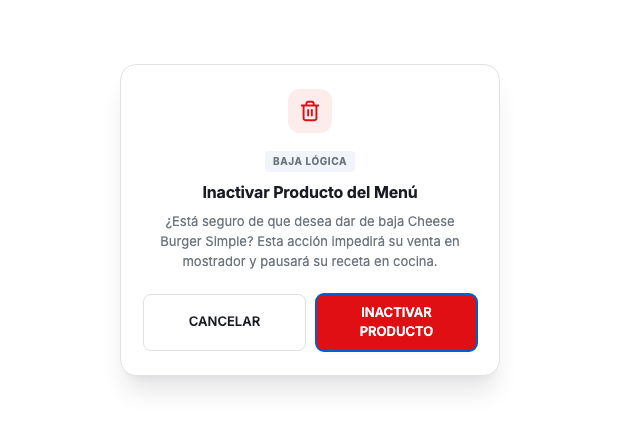
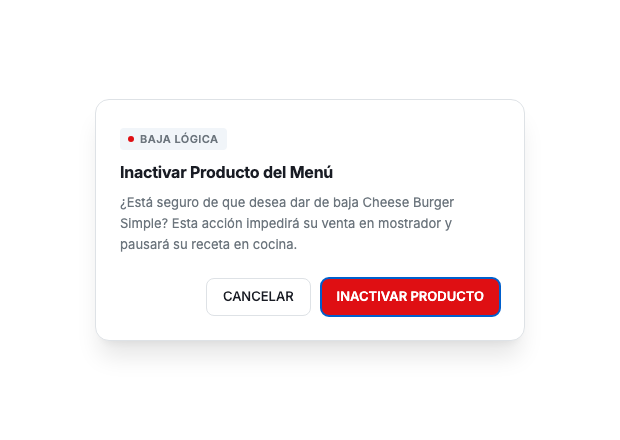
style(ui): implementar Alternativa B minimalista tipográfica (Linear/Stripe) sin iconos

diff --git a/apps/web/resources/js/Components/Modal/ConfirmDialog.jsx b/apps/web/resources/js/Components/Modal/ConfirmDialog.jsx
@@ -1,5 +1,9 @@
 import React, { useEffect, useRef } from 'react';
 
+/**
+ * ConfirmDialog — Estilo Minimalista Tipográfico (Linear / Stripe)
+ * Diálogo de confirmación transaccional agnóstico sin iconos decorativos.
+ */
 export default function ConfirmDialog({
     isOpen = true,
     title = '¿Está seguro?',
@@ -11,14 +15,13 @@ export default function ConfirmDialog({
     onConfirm,
     onCancel,
     freeze = false,
-    icon: customIcon = null,
 }) {
     const confirmBtnRef = useRef(null);
 
     useEffect(() => {
         if (!isOpen) return;
 
-        // Auto-focus confirm button
+        // Auto-focus en el botón de confirmación
         if (confirmBtnRef.current) {
             confirmBtnRef.current.focus();
         }
@@ -36,100 +39,14 @@ export default function ConfirmDialog({
 
     if (!isOpen) return null;
 
-    // Determinación de variantes semánticas
     const isDanger = variant === 'danger';
     const isWarning = variant === 'warning';
-    const isInfo = variant === 'info' || variant === 'question';
 
     const defaultConfirmText = isDanger ? 'Eliminar' : 'Aceptar';
     const finalConfirmText = confirmText || defaultConfirmText;
 
-    const iconBadge = () => {
-        if (customIcon) {
-            return (
-                <div style={{
-                    width: '44px',
-                    height: '44px',
-                    borderRadius: '12px',
-                    backgroundColor: 'var(--bg-main, #f1f5f9)',
-                    color: 'var(--text-main, #0f172a)',
-                    display: 'flex',
-                    alignItems: 'center',
-                    justifyContent: 'center',
-                    margin: '0 auto 14px auto'
-                }}>
-                    {customIcon}
-                </div>
-            );
-        }
-
-        if (isDanger) {
-            return (
-                <div style={{
-                    width: '44px',
-                    height: '44px',
-                    borderRadius: '12px',
-                    backgroundColor: 'rgba(223, 15, 19, 0.08)',
-                    color: '#df0f13',
-                    display: 'flex',
-                    alignItems: 'center',
-                    justifyContent: 'center',
-                    margin: '0 auto 14px auto'
-                }}>
-                    <svg width="22" height="22" viewBox="0 0 24 24" fill="none" stroke="currentColor" strokeWidth="2.1" strokeLinecap="round" strokeLinejoin="round">
-                        <path d="M3 6h18m-2 0v14a2 2 0 0 1-2 2H7a2 2 0 0 1-2-2V6m3 0V4a2 2 0 0 1 2-2h4a2 2 0 0 1 2 2v2"></path>
-                        <line x1="10" y1="11" x2="10" y2="17"></line>
-                        <line x1="14" y1="11" x2="14" y2="17"></line>
-                    </svg>
-                </div>
-            );
-        }
-
-        if (isWarning) {
-            return (
-                <div style={{
-                    width: '44px',
-                    height: '44px',
-                    borderRadius: '12px',
-                    backgroundColor: '#fef3c7',
-                    color: '#d97706',
-                    display: 'flex',
-                    alignItems: 'center',
-                    justifyContent: 'center',
-                    margin: '0 auto 14px auto'
-                }}>
-                    <svg width="22" height="22" viewBox="0 0 24 24" fill="none" stroke="currentColor" strokeWidth="2.1" strokeLinecap="round" strokeLinejoin="round">
-                        <path d="m21.73 18-8-14a2 2 0 0 0-3.48 0l-8 14A2 2 0 0 0 4 21h16a2 2 0 0 0 1.73-3Z"></path>
-                        <line x1="12" y1="9" x2="12" y2="13"></line>
-                        <line x1="12" y1="17" x2="12.01" y2="17"></line>
-                    </svg>
-                </div>
-            );
-        }
-
-        // Operación Transaccional / Ficha Técnica (Documento verificado en vez del cliché de '?')
-        return (
-            <div style={{
-                width: '44px',
-                height: '44px',
-                borderRadius: '12px',
-                backgroundColor: 'rgba(2, 132, 199, 0.08)',
-                color: '#0284c7',
-                display: 'flex',
-                alignItems: 'center',
-                justifyContent: 'center',
-                margin: '0 auto 14px auto'
-            }}>
-                <svg width="22" height="22" viewBox="0 0 24 24" fill="none" stroke="currentColor" strokeWidth="2.1" strokeLinecap="round" strokeLinejoin="round">
-                    <path d="M14 2H6a2 2 0 0 0-2 2v16a2 2 0 0 0 2 2h12a2 2 0 0 0 2-2V8z"></path>
-                    <polyline points="14 2 14 8 20 8"></polyline>
-                    <path d="m9 15 2 2 4-4"></path>
-                </svg>
-            </div>
-        );
-    };
-
     const confirmBtnBg = isDanger ? '#df0f13' : isWarning ? '#d97706' : '#0284c7';
+    const accentDotColor = isDanger ? '#df0f13' : isWarning ? '#d97706' : '#0284c7';
 
     return (
         <div
@@ -154,7 +71,7 @@ export default function ConfirmDialog({
         >
             <style dangerouslySetInnerHTML={{ __html: `
                 @keyframes owensModalPopIn {
-                    0% { opacity: 0; transform: scale(0.96) translateY(4px); }
+                    0% { opacity: 0; transform: scale(0.97) translateY(4px); }
                     100% { opacity: 1; transform: scale(1) translateY(0); }
                 }
             `}} />
@@ -167,31 +84,37 @@ export default function ConfirmDialog({
                     backgroundColor: 'var(--bg-card, #ffffff)',
                     color: 'var(--text-main, #0f172a)',
                     border: '1px solid var(--border-color, #e2e8f0)',
-                    borderRadius: '16px',
+                    borderRadius: '14px',
                     boxShadow: '0 20px 25px -5px rgba(0, 0, 0, 0.1), 0 8px 10px -6px rgba(0, 0, 0, 0.06)',
                     width: '100%',
-                    maxWidth: '380px',
-                    padding: '24px 22px',
-                    textAlign: 'center',
-                    animation: freeze ? 'none' : 'owensModalPopIn 0.2s cubic-bezier(0.16, 1, 0.3, 1)',
+                    maxWidth: '430px',
+                    padding: '24px',
+                    textAlign: 'left',
+                    animation: freeze ? 'none' : 'owensModalPopIn 0.18s cubic-bezier(0.16, 1, 0.3, 1)',
                     boxSizing: 'border-box'
                 }}
             >
-                {iconBadge()}
-
                 {category && (
                     <div style={{
-                        display: 'inline-block',
-                        fontSize: '10px',
-                        fontWeight: 700,
-                        letterSpacing: '0.06em',
+                        display: 'inline-flex',
+                        alignItems: 'center',
+                        gap: '6px',
+                        fontSize: '11px',
+                        fontWeight: 600,
+                        letterSpacing: '0.04em',
                         textTransform: 'uppercase',
                         color: 'var(--text-muted, #64748b)',
                         backgroundColor: 'var(--bg-main, #f1f5f9)',
                         padding: '3px 8px',
                         borderRadius: '4px',
-                        marginBottom: '10px'
+                        marginBottom: '12px'
                     }}>
+                        <span style={{
+                            width: '6px',
+                            height: '6px',
+                            borderRadius: '50%',
+                            backgroundColor: accentDotColor
+                        }} />
                         {category}
                     </div>
                 )}
@@ -200,31 +123,30 @@ export default function ConfirmDialog({
                     margin: '0 0 8px 0',
                     fontSize: '16px',
                     fontWeight: 700,
-                    letterSpacing: '-0.01em',
+                    letterSpacing: '-0.015em',
                     color: 'var(--text-main, #0f172a)',
-                    lineHeight: 1.3
+                    lineHeight: 1.35
                 }}>
                     {title}
                 </h3>
 
                 <p style={{
-                    margin: '0 0 22px 0',
+                    margin: '0 0 24px 0',
                     fontSize: '13px',
-                    lineHeight: 1.55,
+                    lineHeight: 1.6,
                     color: 'var(--text-muted, #64748b)'
                 }}>
                     {message}
                 </p>
 
-                <div style={{ display: 'flex', justifyContent: 'center', gap: '10px' }}>
+                <div style={{ display: 'flex', justifyContent: 'flex-end', gap: '10px' }}>
                     <button
                         type="button"
                         onClick={onCancel}
                         style={{
-                            flex: 1,
-                            padding: '9px 14px',
+                            padding: '8px 16px',
                             fontSize: '13px',
-                            fontWeight: 600,
+                            fontWeight: 500,
                             borderRadius: '8px',
                             border: '1px solid var(--border-color, #cbd5e1)',
                             backgroundColor: 'transparent',
@@ -241,8 +163,7 @@ export default function ConfirmDialog({
                         type="button"
                         onClick={onConfirm}
                         style={{
-                            flex: 1,
-                            padding: '9px 14px',
+                            padding: '8px 16px',
                             fontSize: '13px',
                             fontWeight: 600,
                             borderRadius: '8px',
@@ -250,7 +171,7 @@ export default function ConfirmDialog({
                             backgroundColor: confirmBtnBg,
                             color: '#ffffff',
                             cursor: 'pointer',
-                            boxShadow: '0 1px 3px rgba(0,0,0,0.15)',
+                            boxShadow: '0 1px 2px rgba(0,0,0,0.1)',
                             transition: 'opacity 0.15s ease'
                         }}
                     >
